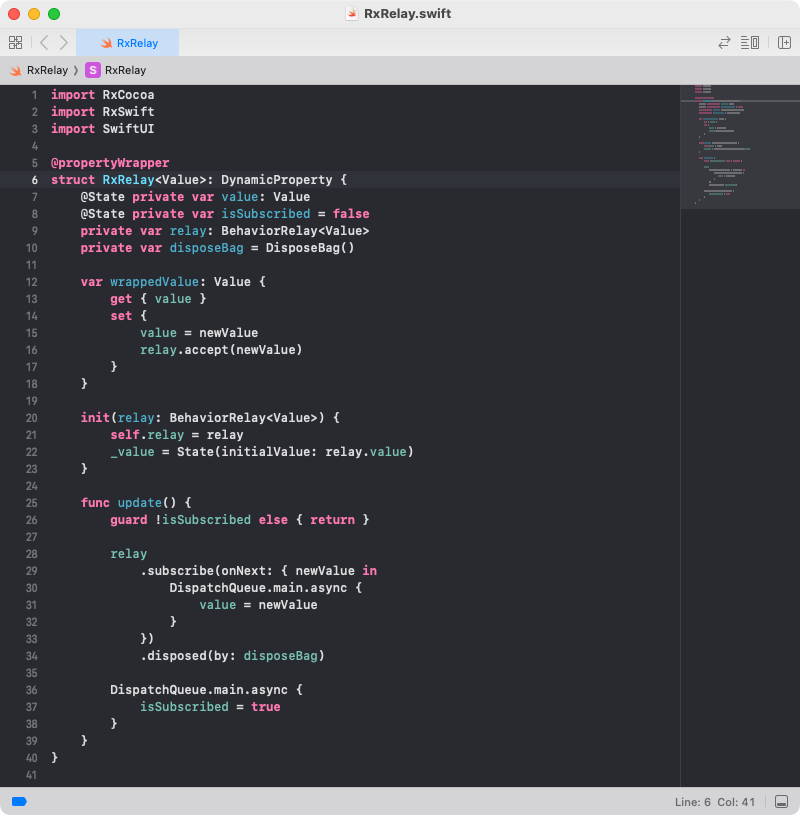
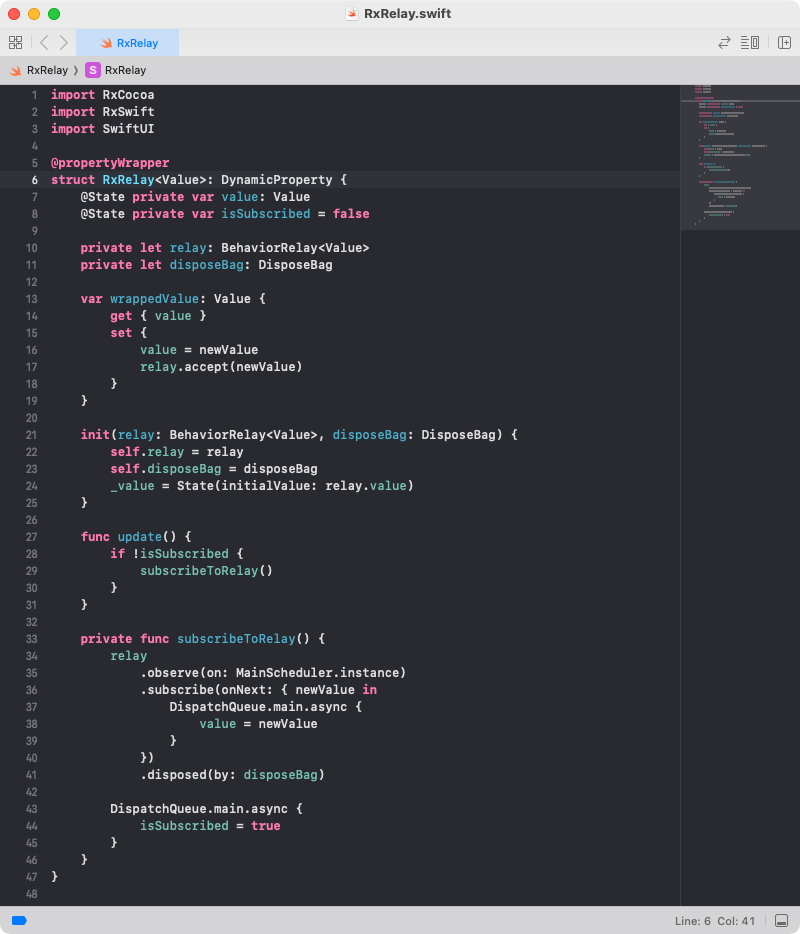
Add a subscriptions manager

diff --git a/RxSwiftUI_Counter/Views/ContentView.swift b/RxSwiftUI_Counter/Views/ContentView.swift
@@ -7,24 +7,17 @@
 
 import SwiftUI
 
-/// The main view that displays the current counter value and allows the user to start, stop, and reset the counter
-/// using buttons.
+/// Displays the current counter value and allows the user to start, stop, and reset the counter.
 struct ContentView: View {
-    /// Tracks whether the counter is currently running.
     @State private var isRunning = false
-
-    /// Binds the counter relay from the view model to the SwiftUI view.
+    var viewModel: ViewModel
     @RxRelay private var counterRelay: Int
 
-    /// The view model that manages the counter logic.
-    private let viewModel = ContentViewModel()
-
-    /// Initializes the `ContentView` and sets up the relay binding.
-    init() {
-        _counterRelay = RxRelay(relay: viewModel.counterRelay) // Bind to the counter relay from the view model.
+    init(viewModel: ViewModel) {
+        self.viewModel = viewModel
+        _counterRelay = RxRelay(relay: viewModel.counterRelay, disposeBag: SubscriptionsManager.shared.disposeBag)
     }
 
-    /// The body of the view, containing the current counter and control buttons.
     var body: some View {
         VStack {
             Text("\(counterRelay)")
@@ -55,24 +48,25 @@ struct ContentView: View {
                 .opacity(isRunning ? 0.5 : 1.0)
             }
         }
+        .onDisappear {
+            viewModel.stopCounter()
+        }
         .frame(maxWidth: .infinity, maxHeight: .infinity)
         .background(Color(.systemBackground))
         .ignoresSafeArea()
     }
 
-    /// Toggles the counter between running and stopped, and updates the button label.
     private func toggleCounter() {
         viewModel.toggleCounter()
-        isRunning.toggle() // Toggle the running state.
+        isRunning.toggle()
     }
 
-    /// Resets the counter value to 0 and updates the start/stop button to "Start".
     private func resetCounter() {
         viewModel.resetCounter()
-        isRunning = false // Set isRunning to false after resetting.
+        isRunning = false
     }
 }
 
 #Preview {
-    ContentView()
+    ContentView(viewModel: ViewModel())
 }

diff --git a/RxSwiftUI_Counter/Property Wrappers/RxRelay.swift b/RxSwiftUI_Counter/Property Wrappers/RxRelay.swift
@@ -20,10 +20,10 @@ struct RxRelay<Value>: DynamicProperty {
     @State private var isSubscribed = false
 
     /// The `BehaviorRelay` that emits values.
-    private var relay: BehaviorRelay<Value>
+    private let relay: BehaviorRelay<Value>
 
-    /// The `DisposeBag` that manages the subscription's lifecycle.
-    private var disposeBag = DisposeBag()
+    /// The externally managed `DisposeBag`.
+    private let disposeBag: DisposeBag
 
     /// The wrapped value for this property wrapper.
     var wrappedValue: Value {
@@ -34,28 +34,31 @@ struct RxRelay<Value>: DynamicProperty {
         }
     }
 
-    /// Initializes the `RxRelay` with a `BehaviorRelay`.
-    /// - Parameter relay: The `BehaviorRelay` to bind to.
-    init(relay: BehaviorRelay<Value>) {
+    /// Initializes the `RxRelay` with a `BehaviorRelay` and an externally managed `DisposeBag`.
+    init(relay: BehaviorRelay<Value>, disposeBag: DisposeBag) {
         self.relay = relay
+        self.disposeBag = disposeBag
         _value = State(initialValue: relay.value) // Initialize with the relay's current value.
     }
 
     /// Called automatically by SwiftUI to keep the property wrapper in sync with the relay's values.
     func update() {
-        guard !isSubscribed else { return }
+        if !isSubscribed {
+            subscribeToRelay()
+        }
+    }
 
+    /// Subscribes to the relay and ensures the subscription is properly managed.
+    private func subscribeToRelay() {
         relay
             .observe(on: MainScheduler.instance) // Ensure updates happen on the main thread.
             .subscribe(onNext: { newValue in
-                // Set outside of SwiftUI's view update cycle.
                 DispatchQueue.main.async {
                     value = newValue
                 }
             })
-            .disposed(by: disposeBag) // Automatically clean up the subscription when no longer needed.
+            .disposed(by: disposeBag)
 
-        // Mark as subscribed to prevent multiple subscriptions, outside the update cycle.
         DispatchQueue.main.async {
             isSubscribed = true
         }

diff --git a/RxSwiftUI_Counter/Views/ParentView.swift b/RxSwiftUI_Counter/Views/ParentView.swift
@@ -9,25 +9,36 @@ import SwiftUI
 
 /// A simple parent view that contains the `ContentView` and re-renders it when the `showCounter` state changes.
 struct ParentView: View {
-    @State private var showCounter = false // Set to false initially to not show the ContentView at first.
+    @State private var showCounter = false
+    @State private var parentUpdateCounter = 0
+    private var viewModel = ViewModel()
 
     var body: some View {
         VStack {
             if showCounter {
-                ContentView()
+                ContentView(viewModel: viewModel)
                     .transition(.slide)
             }
-        }
-        .toolbar {
-            ToolbarItem(placement: .bottomBar) {
-                Button(showCounter ? "Hide Counter" : "Show Counter") {
-                    showCounter.toggle()
-                }
-                .padding(5)
-                .background(Color.orange)
-                .foregroundColor(.white)
-                .cornerRadius(10)
+
+            Button(showCounter ? "Hide Counter" : "Show Counter") {
+                showCounter.toggle()
             }
+            .padding(10)
+            .background(Color.orange)
+            .foregroundColor(.white)
+            .cornerRadius(10)
+
+            Button("Update Parent View") {
+                parentUpdateCounter += 1 // Causes the parent to rerender.
+            }
+            .padding(10)
+            .background(Color.blue)
+            .foregroundColor(.white)
+            .cornerRadius(10)
+
+            Text("Parent View Updates: \(parentUpdateCounter)")
+                .padding()
+                .font(.headline)
         }
         .animation(.easeInOut, value: showCounter)
         .frame(maxWidth: .infinity, maxHeight: .infinity)

diff --git a/RxSwiftUI_Counter/View Models/ViewModel.swift b/RxSwiftUI_Counter/View Models/ViewModel.swift
@@ -1,0 +1,49 @@
+//
+//  ViewModel.swift
+//  RxSwiftUI_Counter
+//
+//  Created by Scott Gardner on 9/13/24.
+//
+
+import RxCocoa
+import RxSwift
+
+/// Manages the logic for the counter, including starting, stopping, and resetting it.
+final class ViewModel {
+    private(set) var counterRelay = BehaviorRelay<Int>(value: 0)
+    private(set) var isRunning = false
+    private var timerSubscription: Disposable?
+
+    func startCounter() {
+        guard !isRunning else { return }
+        isRunning = true
+
+        timerSubscription = Observable<Int>.timer(
+            .seconds(0),
+            period: .seconds(1),
+            scheduler: MainScheduler.instance
+        )
+        .subscribe(onNext: { [weak self] _ in
+            guard let self else { return }
+            let nextValue = counterRelay.value + 1
+            counterRelay.accept(nextValue)
+        })
+
+        SubscriptionsManager.shared.add(timerSubscription!)
+    }
+
+    func stopCounter() {
+        isRunning = false
+        timerSubscription?.dispose()
+        timerSubscription = nil
+        SubscriptionsManager.shared.reset()
+    }
+
+    func resetCounter() {
+        counterRelay.accept(0)
+    }
+
+    func toggleCounter() {
+        isRunning ? stopCounter() : startCounter()
+    }
+}

diff --git a/RxSwiftUI_Counter/Services/SubscriptionsManager.swift b/RxSwiftUI_Counter/Services/SubscriptionsManager.swift
@@ -1,0 +1,28 @@
+//
+//  SubscriptionsManager.swift
+//  RxSwiftUI_Counter
+//
+//  Created by Scott Gardner on 9/13/24.
+//
+
+import RxSwift
+
+/// A singleton manager that handles all subscriptions.
+final class SubscriptionsManager {
+    static let shared = SubscriptionsManager()
+
+    /// A central `DisposeBag` that manages all subscriptions added to it.
+    private(set) var disposeBag = DisposeBag()
+
+    private init() {}
+
+    /// Add a disposable to the global dispose bag.
+    func add(_ disposable: Disposable) {
+        disposable.disposed(by: disposeBag)
+    }
+
+    /// Resets the `DisposeBag`, which clears all active subscriptions.
+    func reset() {
+        disposeBag = DisposeBag()
+    }
+}

diff --git a/README.md b/README.md
@@ -1,20 +1,22 @@
+
 # RxSwift Counter with SwiftUI
 
 This project provides an example of how to integrate **RxSwift** with **SwiftUI** in a more declarative and idiomatic way, using a custom property wrapper to streamline the reactive binding.
 
 The app features a counter that starts at `0` and increments every second while running. You can start/stop the counter, and reset it to `0` when it's not running.
 
-Additionally, a **ParentView** is included to show how the subscription is canceled when the `ContentView` is dismissed.
+Additionally, the project includes a **SubscriptionsManager** to centralize subscription management, ensuring the proper lifecycle of RxSwift subscriptions. A **ParentView** is included to demonstrate that when the parent view is rerendered, the subscription continues to work as expected.
 
 ---
 
 ### Project Structure
 
 The project consists of:
-1. **`ContentViewModel`**: Manages the logic of the counter using RxSwift, including starting, stopping, and resetting the counter.
+1. **`ViewModel`**: Manages the logic of the counter using RxSwift, including starting, stopping, and resetting the counter.
 2. **`RxRelay` Property Wrapper**: This custom property wrapper simplifies binding a `BehaviorRelay` from RxSwift to a SwiftUI view.
-3. **`ContentView`**: The SwiftUI view displaying the current counter and controls for toggling and resetting.
-4. **`ParentView`**: Demonstrates the behavior when the `ContentView` is shown or dismissed.
+3. **`SubscriptionsManager`**: A singleton that centrally manages all subscriptions, ensuring that they are properly handled even when views are rerendered or dismissed.
+4. **`ContentView`**: The SwiftUI view displaying the current counter and controls for toggling and resetting.
+5. **`ParentView`**: Demonstrates the behavior when the `ContentView` is shown, dismissed, or rerendered.
 
 ---
 
@@ -67,7 +69,7 @@ import RxCocoa
 struct ContentViewWithoutWrapper: View {
     @State private var counter: Int = 0
 
-    private let viewModel = ContentViewModel()
+    private let viewModel = ViewModel()
     private let disposeBag = DisposeBag()
 
     init() {
@@ -98,7 +100,7 @@ By using the custom `RxRelay` property wrapper, we can avoid the manual subscrip
 @RxRelay var counterRelay: Int
 
 init() {
-    _counterRelay = RxRelay(relay: viewModel.counterRelay)
+    _counterRelay = RxRelay(relay: viewModel.counterRelay, disposeBag: SubscriptionsManager.shared.disposeBag)
 }
 ```
 
